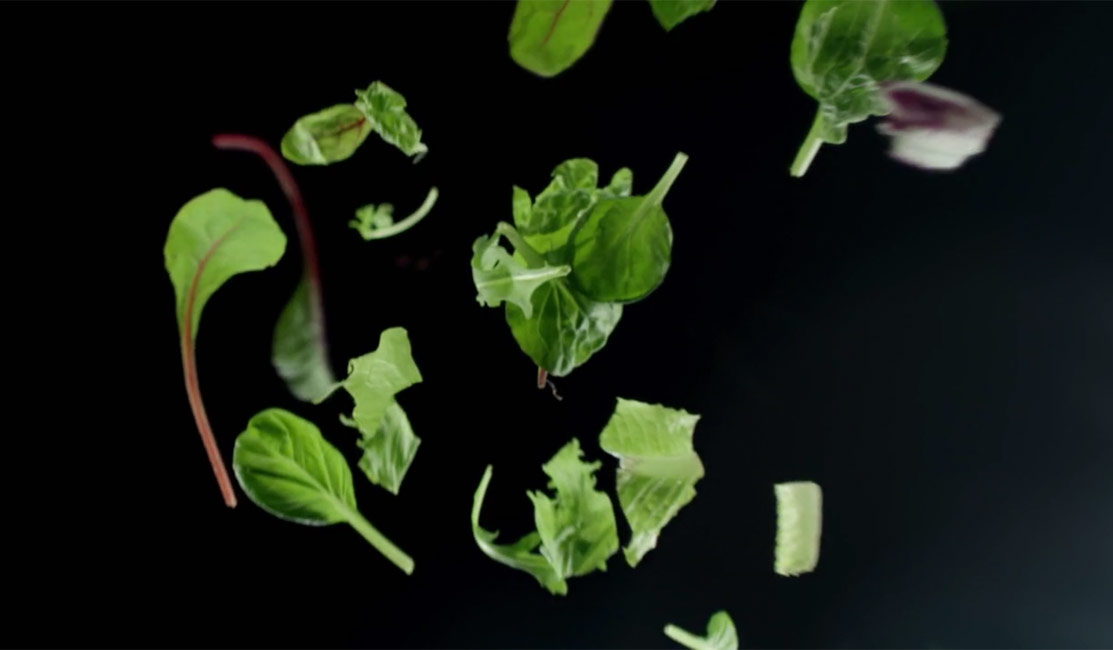
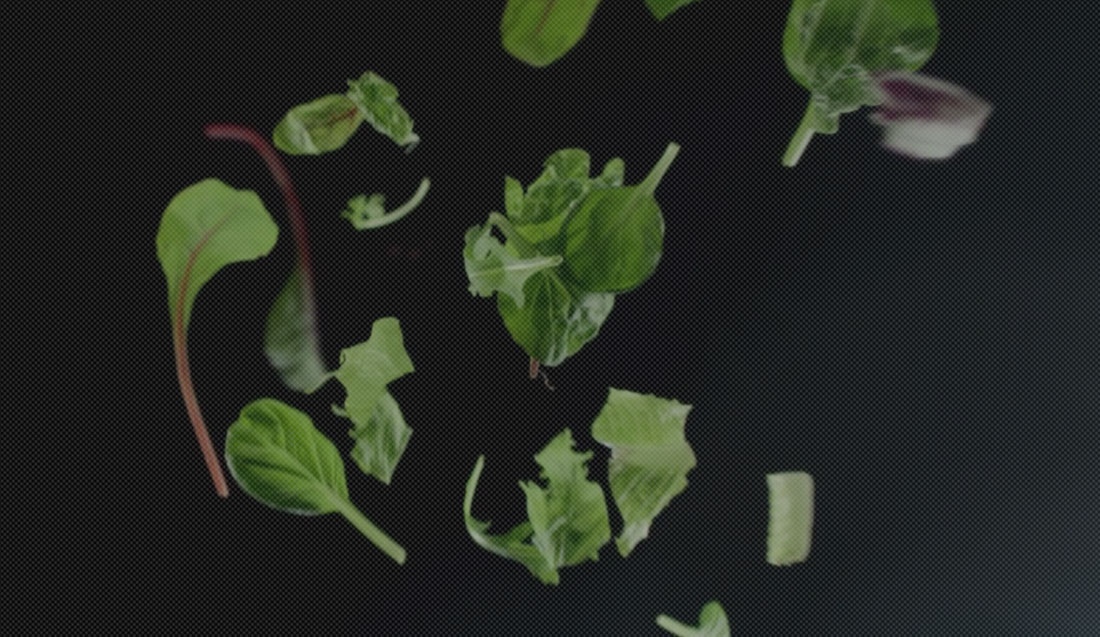
change scss and html

diff --git a/index.html b/index.html
@@ -101,9 +101,7 @@
       <section class="section reviews">
           <ul class="reviews_list">
             <li class="reviews__item">
-              <div class="reviews__image">
-                <img src="img/content/photo/photo_1.jpg" alt="" class="reviews__picture">
-              </div>
+              <div class="review__photo" style="background-image: url('./img/content/photo/photo_1.jpg')"></div>
               <div class="reviews__overlay">
                 <h2 class="reviews__name">Константин Спилберг</h2>
                 <p class="reviews__text">Мысли все о них и о них, о них и о них. Нельзя устоять, невозможно забыть... Никогда не думал, что булочки могут быть такими мягкими, котлетка такой сочной, а сыр таким расплавленным.</p>
@@ -111,9 +109,7 @@
               </div>
             </li>
             <li class="reviews__item">
-              <div class="reviews__image">
-                <img src="img/content/photo/photo_2.jpg" alt="" class="reviews__picture">
-              </div>
+              <div class="review__photo" style="background-image: url('./img/content/photo/photo_2.jpg')"></div>
               <div class="reviews__overlay">
                 <h2 class="reviews__name">Константин Спилберг</h2>
                 <p class="reviews__text">Мысли все о них и о них, о них и о них. Нельзя устоять, невозможно забыть... Никогда не думал, что булочки могут быть такими мягкими, котлетка такой сочной, а сыр таким расплавленным.</p>
@@ -121,9 +117,7 @@
               </div>
             </li>
             <li class="reviews__item">
-              <div class="reviews__image">
-                <img src="img/content/photo/photo_3.jpg" alt="" class="reviews__picture">
-              </div>
+              <div class="review__photo" style="background-image: url('./img/content/photo/photo_3.jpg')"></div>
               <div class="reviews__overlay">
                 <h2 class="reviews__name">Константин Спилберг</h2>
                 <p class="reviews__text">Мысли все о них и о них, о них и о них. Нельзя устоять, невозможно забыть... Никогда не думал, что булочки могут быть такими мягкими, котлетка такой сочной, а сыр таким расплавленным.</p>
@@ -131,9 +125,7 @@
               </div>
             </li>
             <li class="reviews__item">
-              <div class="reviews__image">
-                <img src="img/content/photo/photo_4.jpg" alt="" class="reviews__picture">
-              </div>
+              <div class="review__photo" style="background-image: url('./img/content/photo/photo_4.jpg')"></div>
               <div class="reviews__overlay">
                 <h2 class="reviews__name">Константин Спилберг</h2>
                 <p class="reviews__text">Мысли все о них и о них, о них и о них. Нельзя устоять, невозможно забыть... Никогда не думал, что булочки могут быть такими мягкими, котлетка такой сочной, а сыр таким расплавленным.</p>
@@ -141,9 +133,7 @@
               </div>
             </li>
             <li class="reviews__item">
-              <div class="reviews__image">
-                <img src="img/content/photo/photo_5.jpg" alt="" class="reviews__picture">
-              </div>
+              <div class="review__photo" style="background-image: url('./img/content/photo/photo_5.jpg')"></div>
               <div class="reviews__overlay">
                 <h2 class="reviews__name">Константин Спилберг</h2>
                 <p class="reviews__text">Мысли все о них и о них, о них и о них. Нельзя устоять, невозможно забыть... Никогда не думал, что булочки могут быть такими мягкими, котлетка такой сочной, а сыр таким расплавленным.</p>
@@ -151,9 +141,7 @@
               </div>
             </li>
             <li class="reviews__item">
-              <div class="reviews__image">
-                <img src="img/content/photo/photo_6.jpg" alt="" class="reviews__picture">
-              </div>
+              <div class="review__photo" style="background-image: url('./img/content/photo/photo_6.jpg')"></div>
               <div class="reviews__overlay">
                 <h2 class="reviews__name">Константин Спилберг</h2>
                 <p class="reviews__text">Мысли все о них и о них, о них и о них. Нельзя устоять, невозможно забыть... Никогда не думал, что булочки могут быть такими мягкими, котлетка такой сочной, а сыр таким расплавленным.</p>
@@ -161,9 +149,7 @@
               </div>
             </li>
             <li class="reviews__item">
-              <div class="reviews__image">
-                <img src="img/content/photo/photo_7.jpg" alt="" class="reviews__picture">
-              </div>
+              <div class="review__photo" style="background-image: url('./img/content/photo/photo_7.jpg')"></div>
               <div class="reviews__overlay">
                 <h2 class="reviews__name">Константин Спилберг</h2>
                 <p class="reviews__text">Мысли все о них и о них, о них и о них. Нельзя устоять, невозможно забыть... Никогда не думал, что булочки могут быть такими мягкими, котлетка такой сочной, а сыр таким расплавленным.</p>
@@ -171,9 +157,7 @@
               </div>
             </li>
             <li class="reviews__item">
-              <div class="reviews__image">
-                <img src="img/content/photo/photo_8.jpg" alt="" class="reviews__picture">
-              </div>
+              <div class="review__photo" style="background-image: url('./img/content/photo/photo_8.jpg')"></div>
               <div class="reviews__overlay">
                 <h2 class="reviews__name">Константин Спилберг</h2>
                 <p class="reviews__text">Мысли все о них и о них, о них и о них. Нельзя устоять, невозможно забыть... Никогда не думал, что булочки могут быть такими мягкими, котлетка такой сочной, а сыр таким расплавленным.</p>

diff --git a/css/main.css b/css/main.css
@@ -79,7 +79,7 @@ ul {
   min-height: 650px; }
 
 .container {
-  width: 940px;
+  width: 960px;
   padding: 0 10px;
   margin: 0 auto;
   display: -webkit-box;
@@ -154,12 +154,12 @@ ul {
   border: 1px solid #fff; }
 
 .first_screen {
-  background-image: url("../img/bg/welcome_page_texture.png"), url("../img/bg/welcome_page_bg.jpg");
-  background-position: top right, center center;
-  background-attachment: fixed, fixed;
-  background-repeat: repeat, no-repeat;
-  background-size: auto, cover;
-  height: 100vh; }
+  background-image: url("../img/bg/welcome_page_bg.jpg");
+  background-position: center center;
+  background-attachment: fixed;
+  background-repeat: no-repeat;
+  background-size: cover;
+  height: 100%; }
 
 .header {
   width: 100%;
@@ -265,7 +265,7 @@ ul {
 .promo__title {
   color: #f9b43b; }
 
-.promo__img, .promo__desc {
+.promo__image, .promo__desc {
   -webkit-flex-basis: 50%;
   -ms-flex-preferred-size: 50%;
   flex-basis: 50%;
@@ -349,7 +349,11 @@ ul {
   -webkit-box-pack: justify;
   -webkit-justify-content: space-between;
   -ms-flex-pack: justify;
-  justify-content: space-between; }
+  justify-content: space-between;
+  -webkit-box-align: baseline;
+  -webkit-align-items: baseline;
+  -ms-flex-align: baseline;
+  align-items: baseline; }
 
 .features__item {
   width: 300px;
@@ -378,7 +382,8 @@ ul {
   flex-wrap: wrap;
   margin: 0;
   padding: 0;
-  height: 100%; }
+  height: 100%;
+  width: 100%; }
 
 .reviews__item {
   -webkit-box-flex: 1;
@@ -386,23 +391,22 @@ ul {
   -ms-flex: 1 0 25%;
   flex: 1 0 25%;
   height: 50%;
-  position: relative;
+  position: relative; }
+
+.review__photo {
+  width: 100%;
+  height: 100%;
   background-size: cover;
-  -webkit-filter: grayscale(100);
-  filter: grayscale(100); }
-
-.reviews__image {
-  position: absolute;
-  width: 100%;
-  height: 100%; }
-
-.reviews__picture {
-  width: 100%;
-  height: 100%; }
+  background-position: center;
+  background-repeat: no-repeat;
+  -webkit-filter: grayscale(100%);
+  filter: grayscale(100%); }
 
 .reviews__overlay {
-  padding: 25px 20px 0 20px;
+  padding: 50px 20px;
   position: absolute;
+  top: 0;
+  left: 0;
   height: 100%;
   width: 100%;
   background: rgba(20, 20, 20, 0.6);

diff --git a/scss/section/_reviews.scss b/scss/section/_reviews.scss
@@ -4,29 +4,30 @@
   margin:0;
   padding:0;
   height:100%;
+  width: 100%;
 }
 
 .reviews__item {
   flex:1 0 25%;
   height:50%;
   position: relative;
-  background-size: cover;
-  filter: grayscale(100);
 }
 
-.reviews__image{
-  position: absolute;
+.review__photo{
   width: 100%;
   height: 100%;
-}
-.reviews__picture{
-  width: 100%;
-  height: 100%;
+  background-size: cover;
+  background-position: center;
+  background-repeat: no-repeat;
+  -webkit-filter: grayscale(100%);
+  filter: grayscale(100%);
 }
 
 .reviews__overlay {
-  padding: 25px 20px 0 20px;
+  padding: 50px 20px;
   position: absolute;
+  top: 0;
+  left: 0;
   height: 100%;
   width: 100%;
   background: rgba(20, 20, 20, 0.6);

diff --git a/scss/section/_first_screen.scss b/scss/section/_first_screen.scss
@@ -1,10 +1,10 @@
 .first_screen {
-  background-image: url("../img/bg/welcome_page_texture.png"), url("../img/bg/welcome_page_bg.jpg") ;
-  background-position: top right, center center;
-  background-attachment: fixed, fixed;
-  background-repeat: repeat, no-repeat;
-  background-size: auto, cover;
-  height:100vh;
+  background-image: url("../img/bg/welcome_page_bg.jpg");
+  background-position: center center;
+  background-attachment: fixed;
+  background-repeat: no-repeat;
+  background-size: cover;
+  height:100%;
 }
 
 .header {
@@ -86,7 +86,7 @@
   color: $yellow;
 }
 
-.promo__img, .promo__desc {
+.promo__image, .promo__desc {
   flex-basis: 50%;
   display: flex;
 }

diff --git a/scss/layout/_adjustment.scss b/scss/layout/_adjustment.scss
@@ -10,7 +10,7 @@
 }
 
 .container {
-  width: 940px;
+  width: 960px;
   padding: 0 10px;
   margin: 0 auto;
   display: flex;

diff --git a/scss/section/_we_best.scss b/scss/section/_we_best.scss
@@ -18,6 +18,7 @@
 .features_list {
   display: flex;
   justify-content: space-between;
+  align-items: baseline;
 
 }
 
